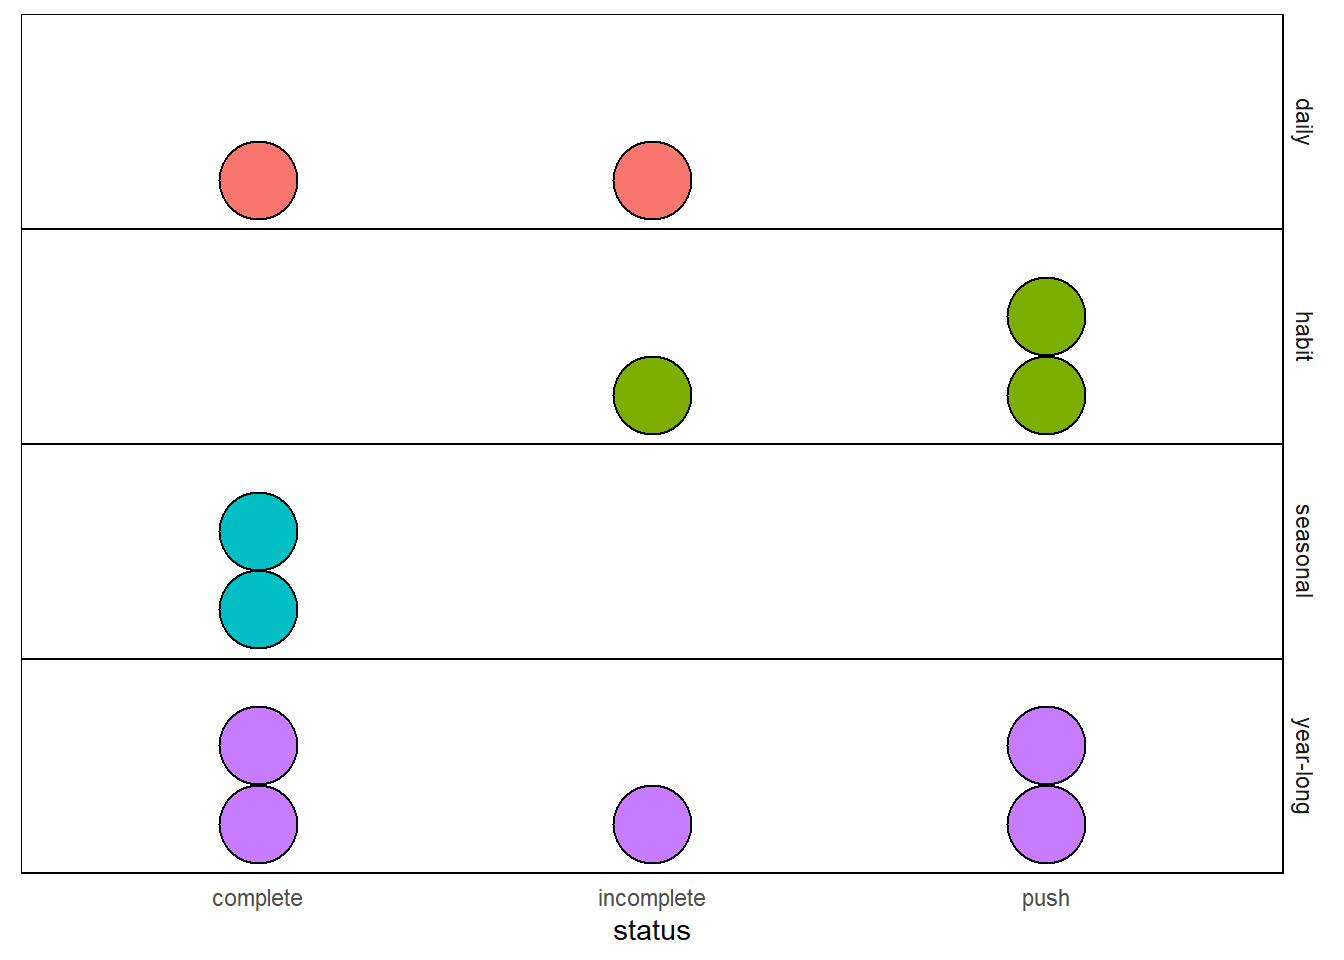
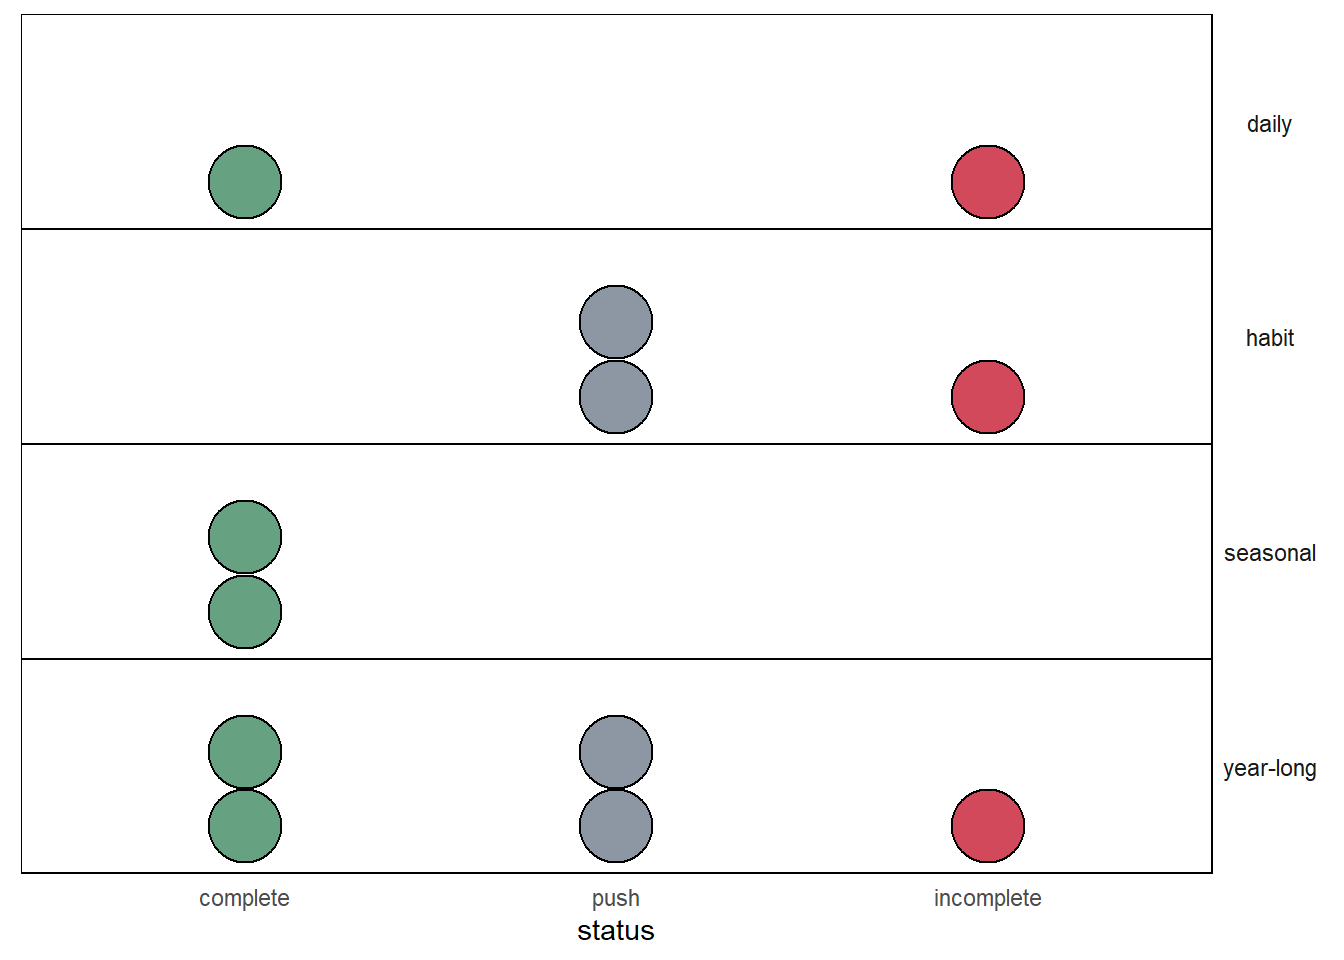
got the viz where I want it

diff --git a/content/posts/2020-01-03-reflecting-on-my-2019-goals.html b/content/posts/2020-01-03-reflecting-on-my-2019-goals.html
@@ -28,4 +28,10 @@ twitter:
 <p>I encourage everyone to complete an end-of-year reflection, in whatever format works best.</p>
 <hr />
 <p><img src="/posts/2020-01-03-reflecting-on-my-2019-goals_files/figure-html/unnamed-chunk-1-1.png" width="672" /></p>
-<p>I show my results above.</p>
+<p>I divided 12 goals for the year into four categories based on how often I would have to think about them:</p>
+<ul>
+<li><strong>Daily:</strong> goals where I would need to complete a task every single day</li>
+<li><strong>Habit:</strong> goals where I would need to complete a task a few times every week</li>
+<li><strong>Seasonal:</strong> goals that were related to a specific time of the year</li>
+<li><strong>Year-long:</strong> long-term goals that might require sporadic effort throughout the year</li>
+</ul>
